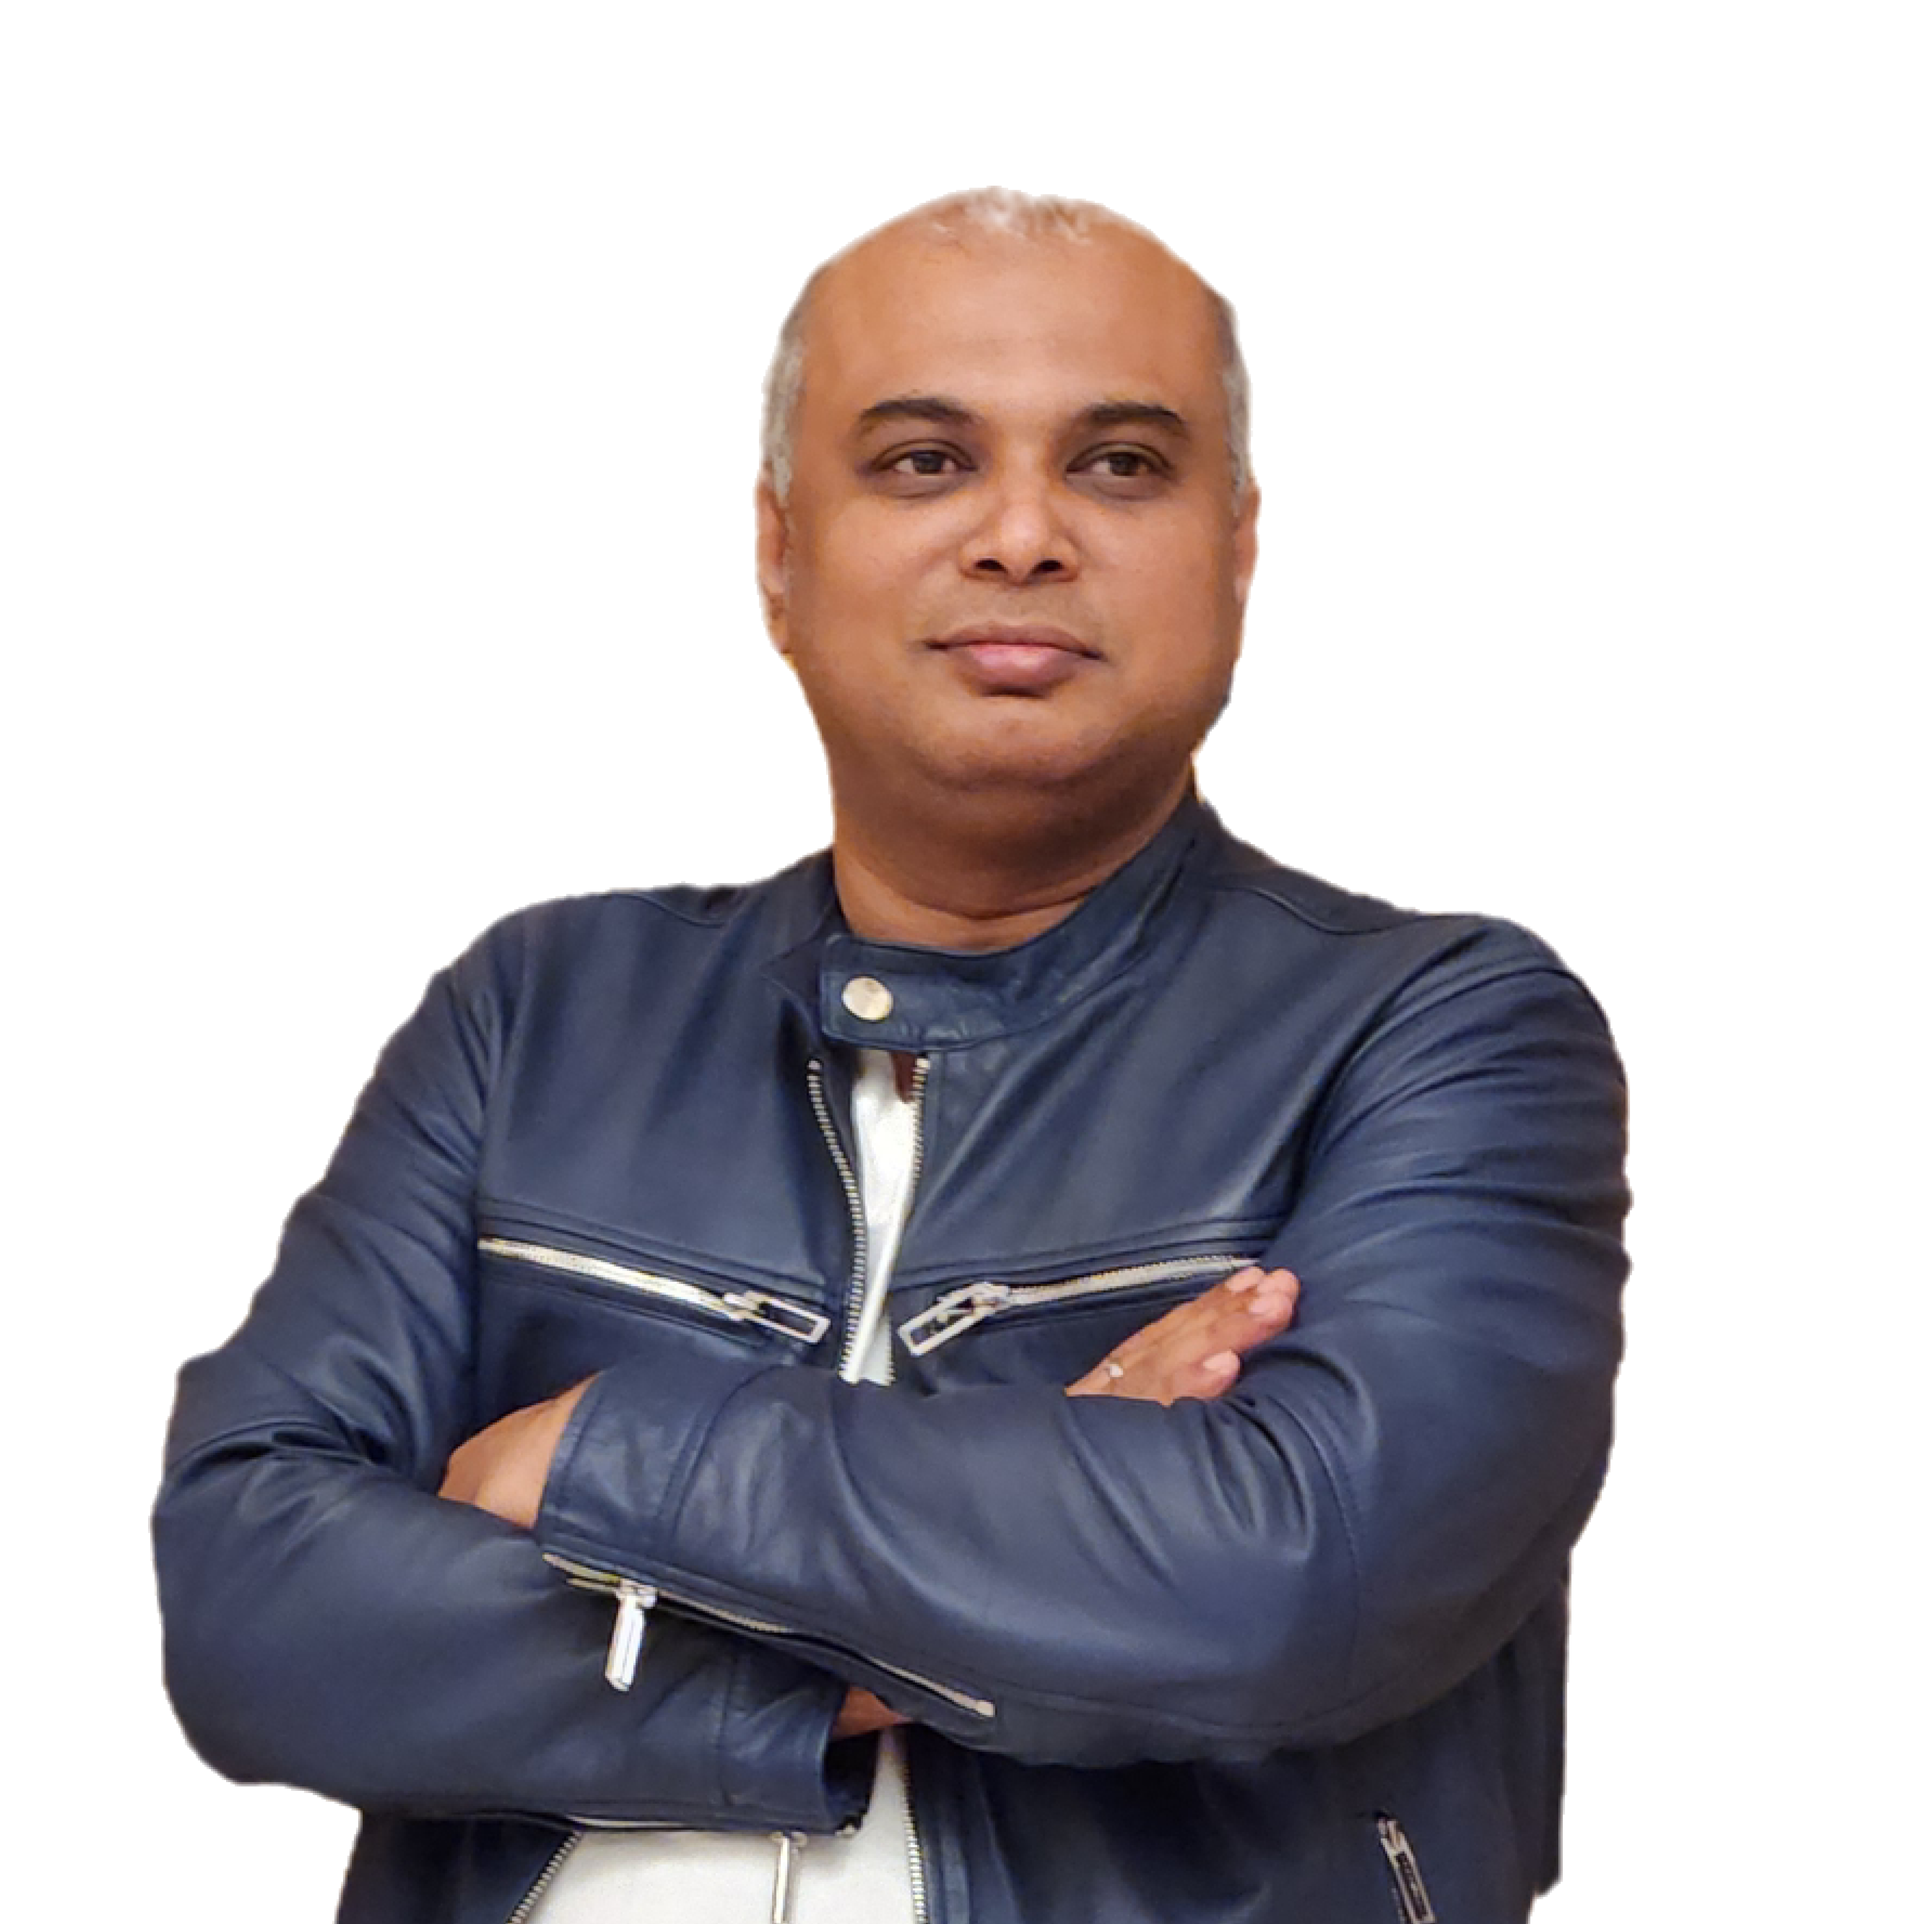
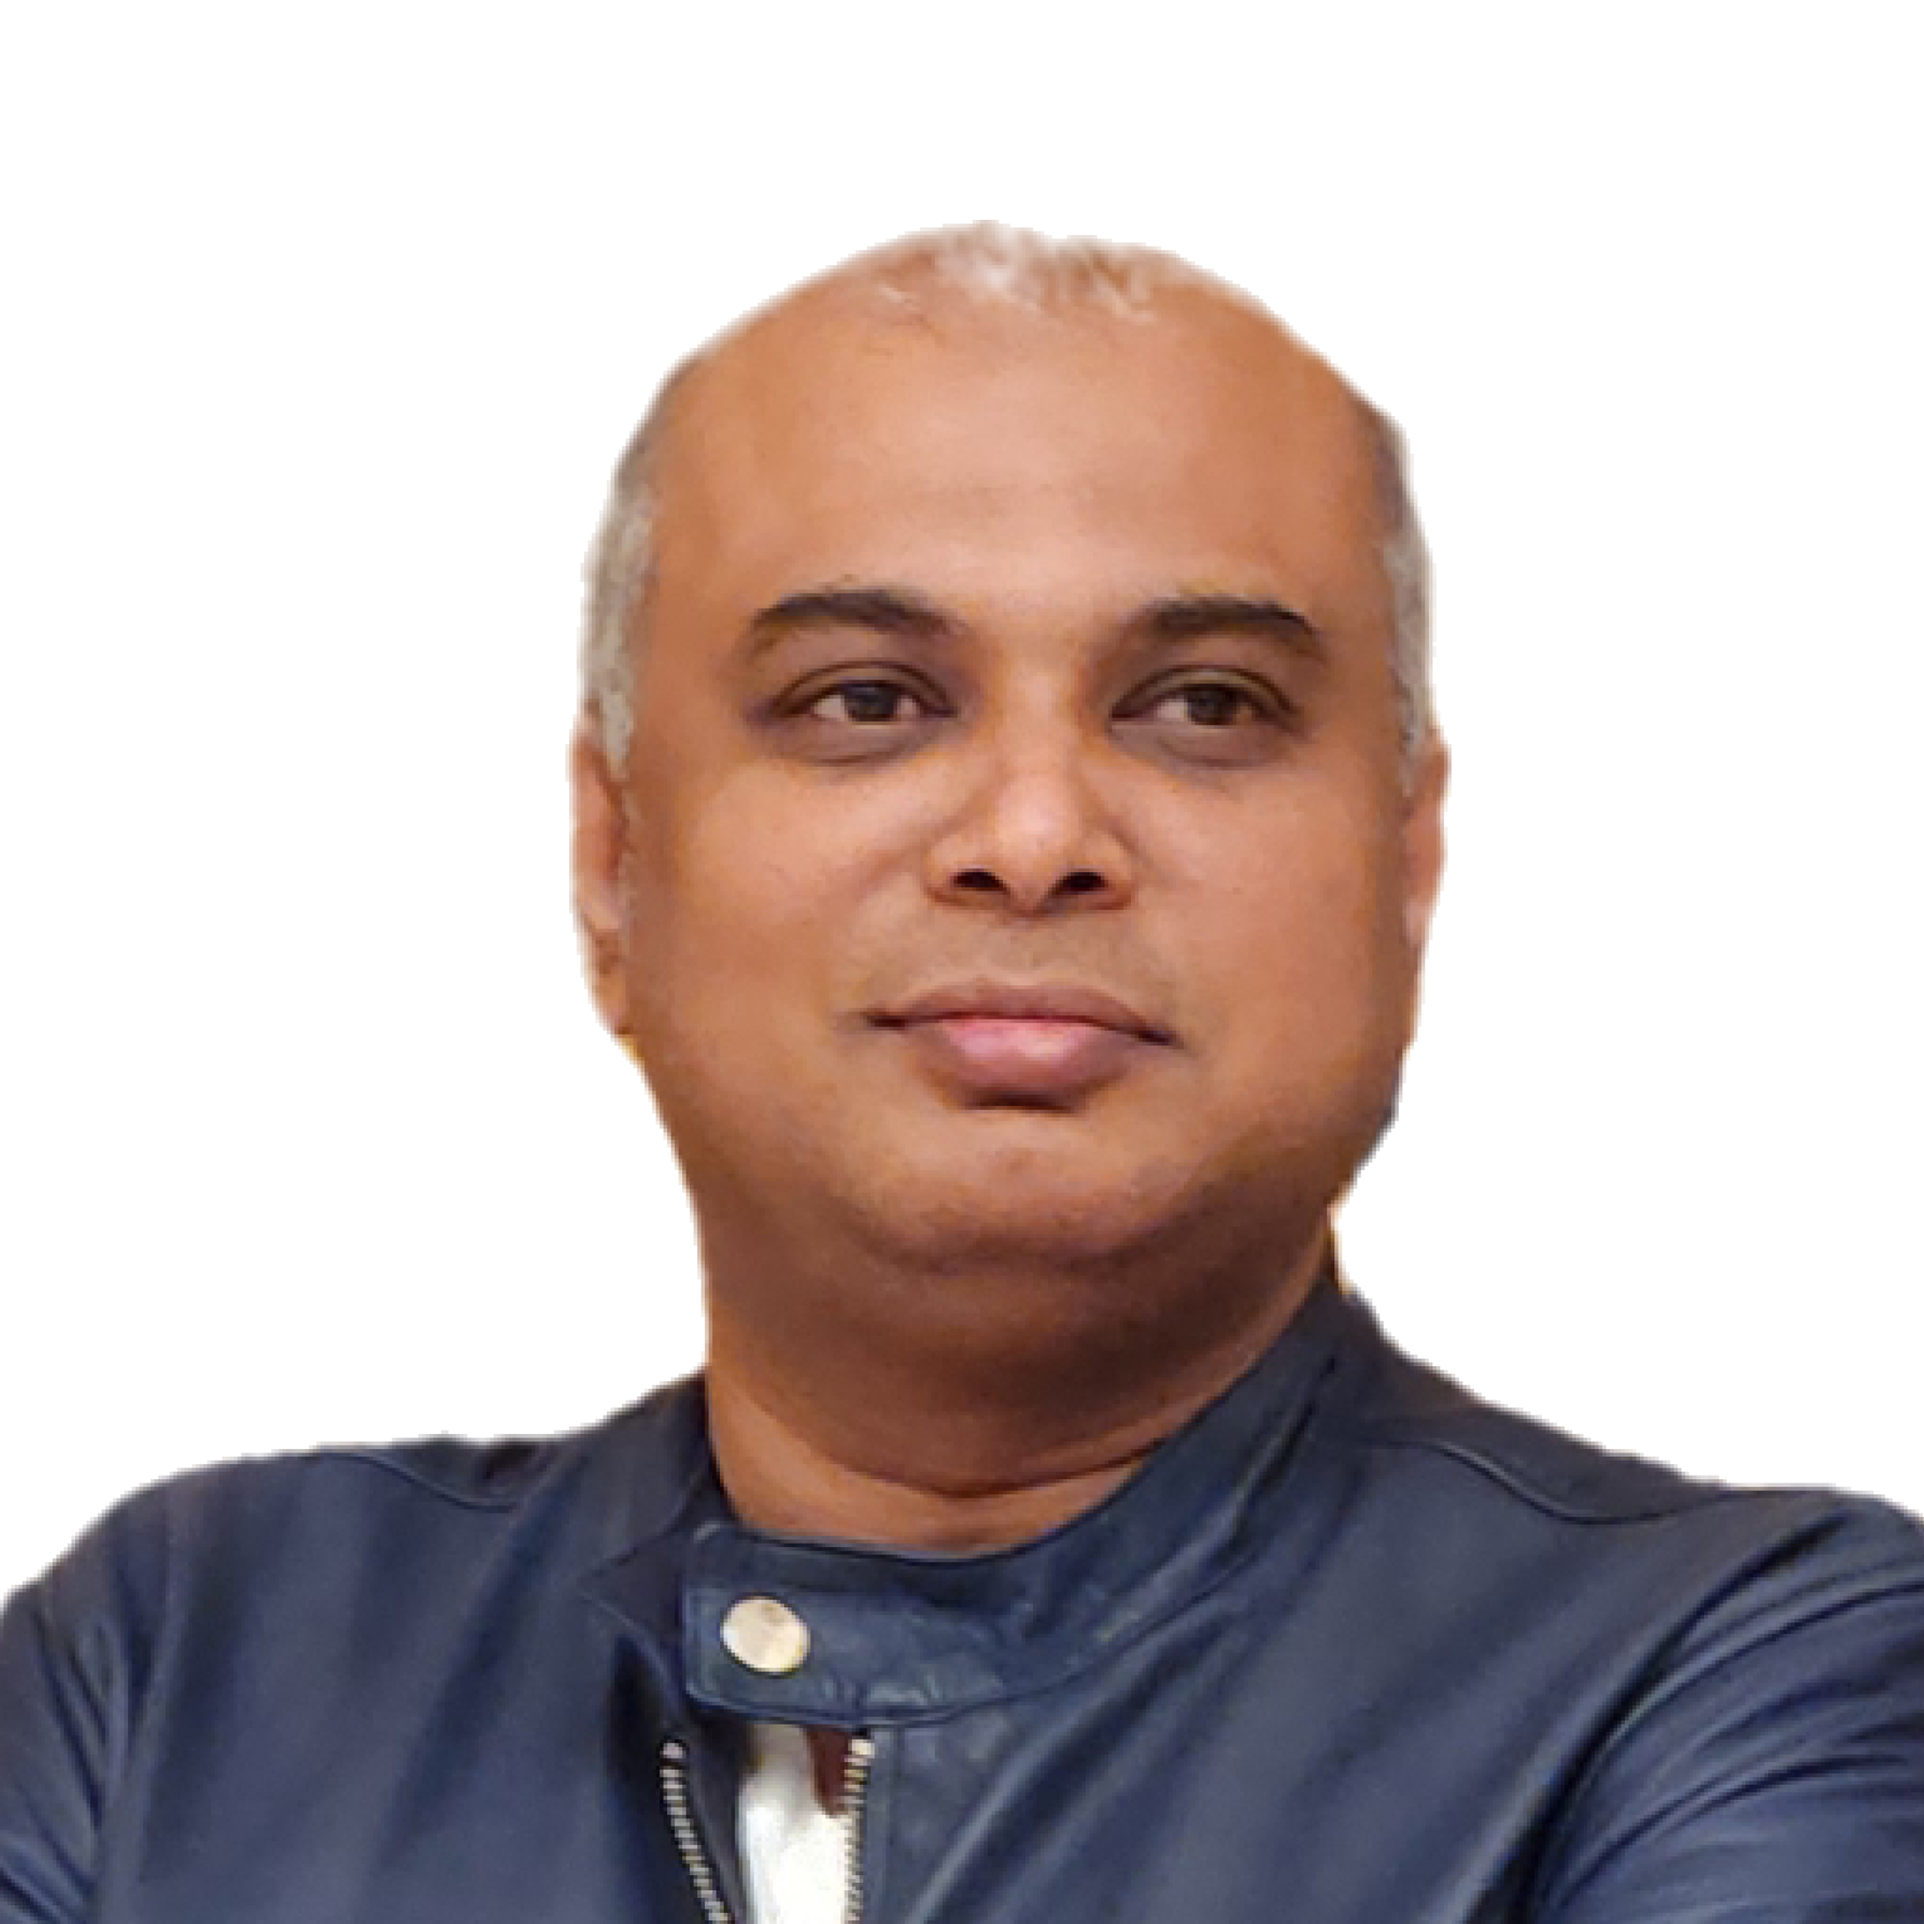
Replace team photos with cropped versions, add 4 missing photos

diff --git a/assets/startups.js b/assets/startups.js
@@ -41,8 +41,8 @@ window.STARTUPS = [
     ],
     team: [
       { name: "Abdel Jawhar", role: "Co-Founder & CEO", linkedin: "#", photo: "assets/team/abdel-jawhar.png" },
-      { name: "Hadi Boustani", role: "Co-Founder & CTO", linkedin: "#" },
-      { name: "Omar Zanhour", role: "Co-Founder", linkedin: "#" }
+      { name: "Hadi Boustani", role: "Co-Founder & CTO", linkedin: "#", photo: "assets/team/hadi-boustani.png" },
+      { name: "Omar Zanhour", role: "Co-Founder", linkedin: "#", photo: "assets/team/omar-zanhour.png" }
     ]
   },
   {
@@ -390,7 +390,7 @@ window.STARTUPS = [
     ],
     team: [
       { name: "Zeid Sinokrot", role: "Co-Founder", linkedin: "#", photo: "assets/team/zeid-sinokrot.png" },
-      { name: "Bashar Ahmad", role: "Co-Founder & CTO", linkedin: "#" },
+      { name: "Bashar Ahmad", role: "Co-Founder & CTO", linkedin: "#", photo: "assets/team/bashar-ahmad.png" },
       { name: "Gabriella Hanna", role: "Business Development", linkedin: "#", photo: "assets/team/gabriella-hanna.png" }
     ]
   },
@@ -612,7 +612,7 @@ window.STARTUPS = [
     team: [
       { name: "Billel Boudouma", role: "Co-Founder & CEO", linkedin: "#", photo: "assets/team/billel-boudouma.png" },
       { name: "Mohamed Ali", role: "Co-Founder & CCO", linkedin: "#", photo: "assets/team/mohamed-ali.png" },
-      { name: "Zoubir Ameur", role: "Co-Founder & CTO", linkedin: "#" }
+      { name: "Zoubir Ameur", role: "Co-Founder & CTO", linkedin: "#", photo: "assets/team/zoubir-ameur.png" }
     ]
   },
   {
